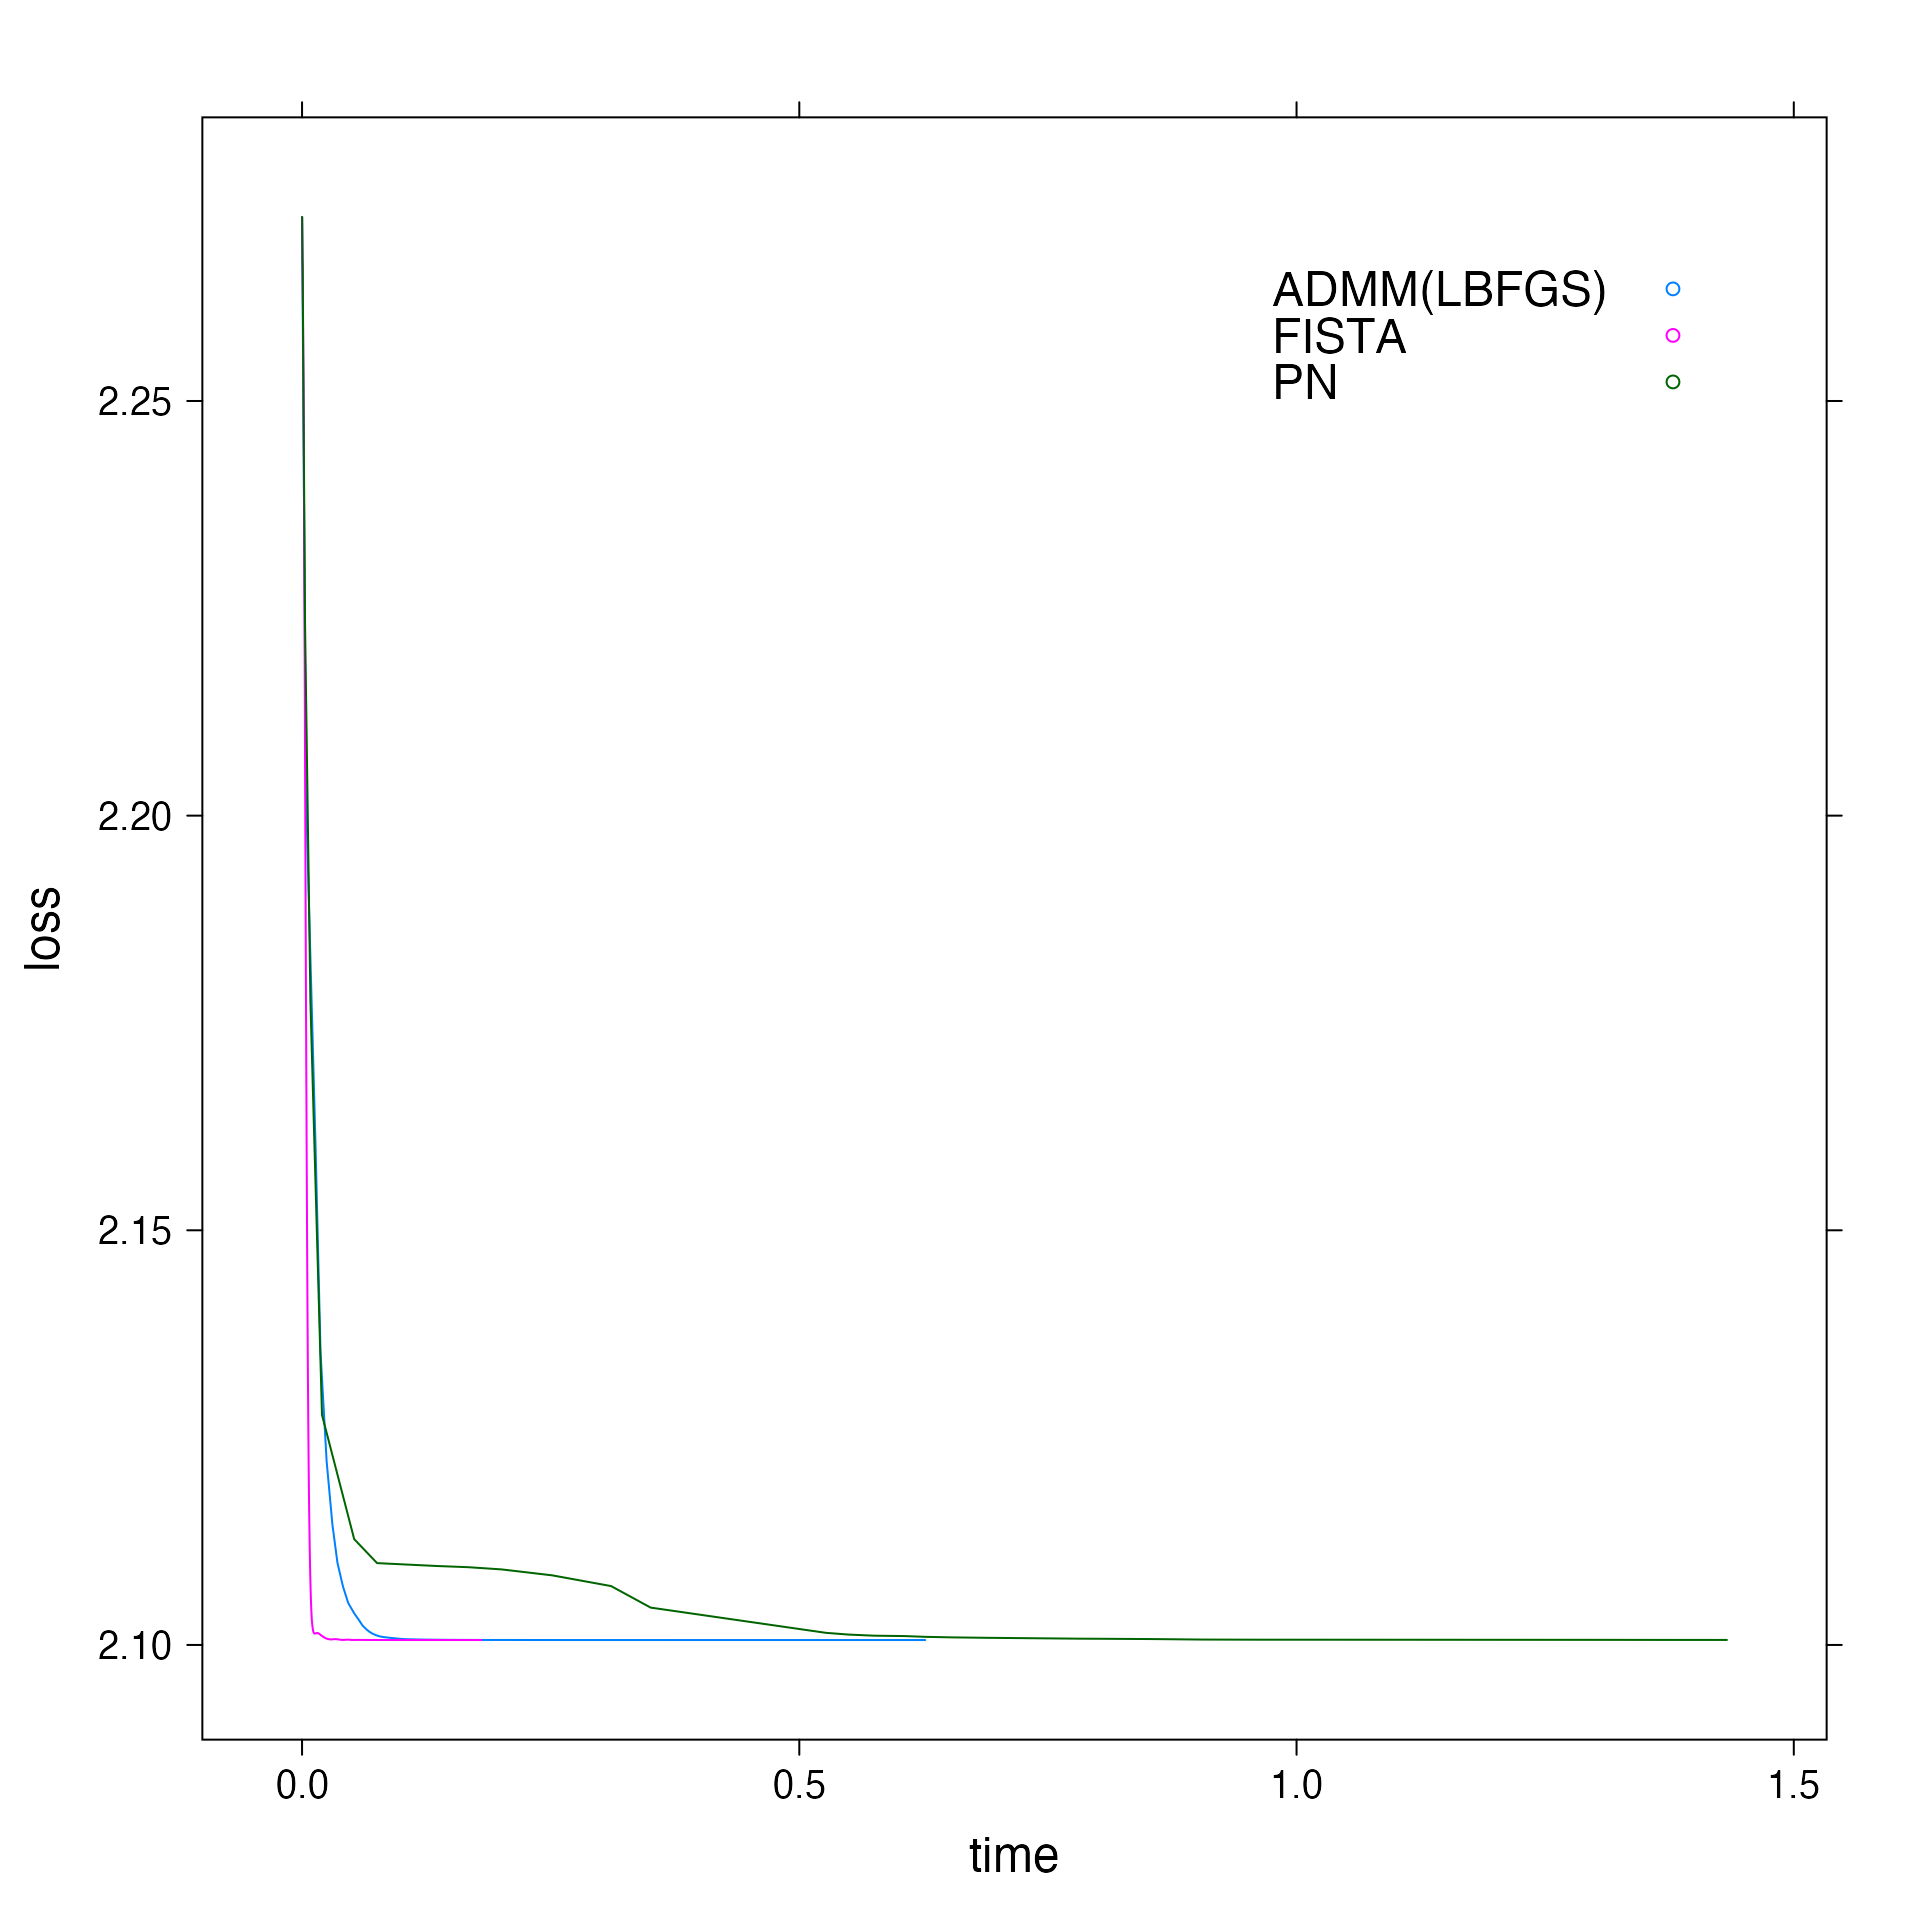
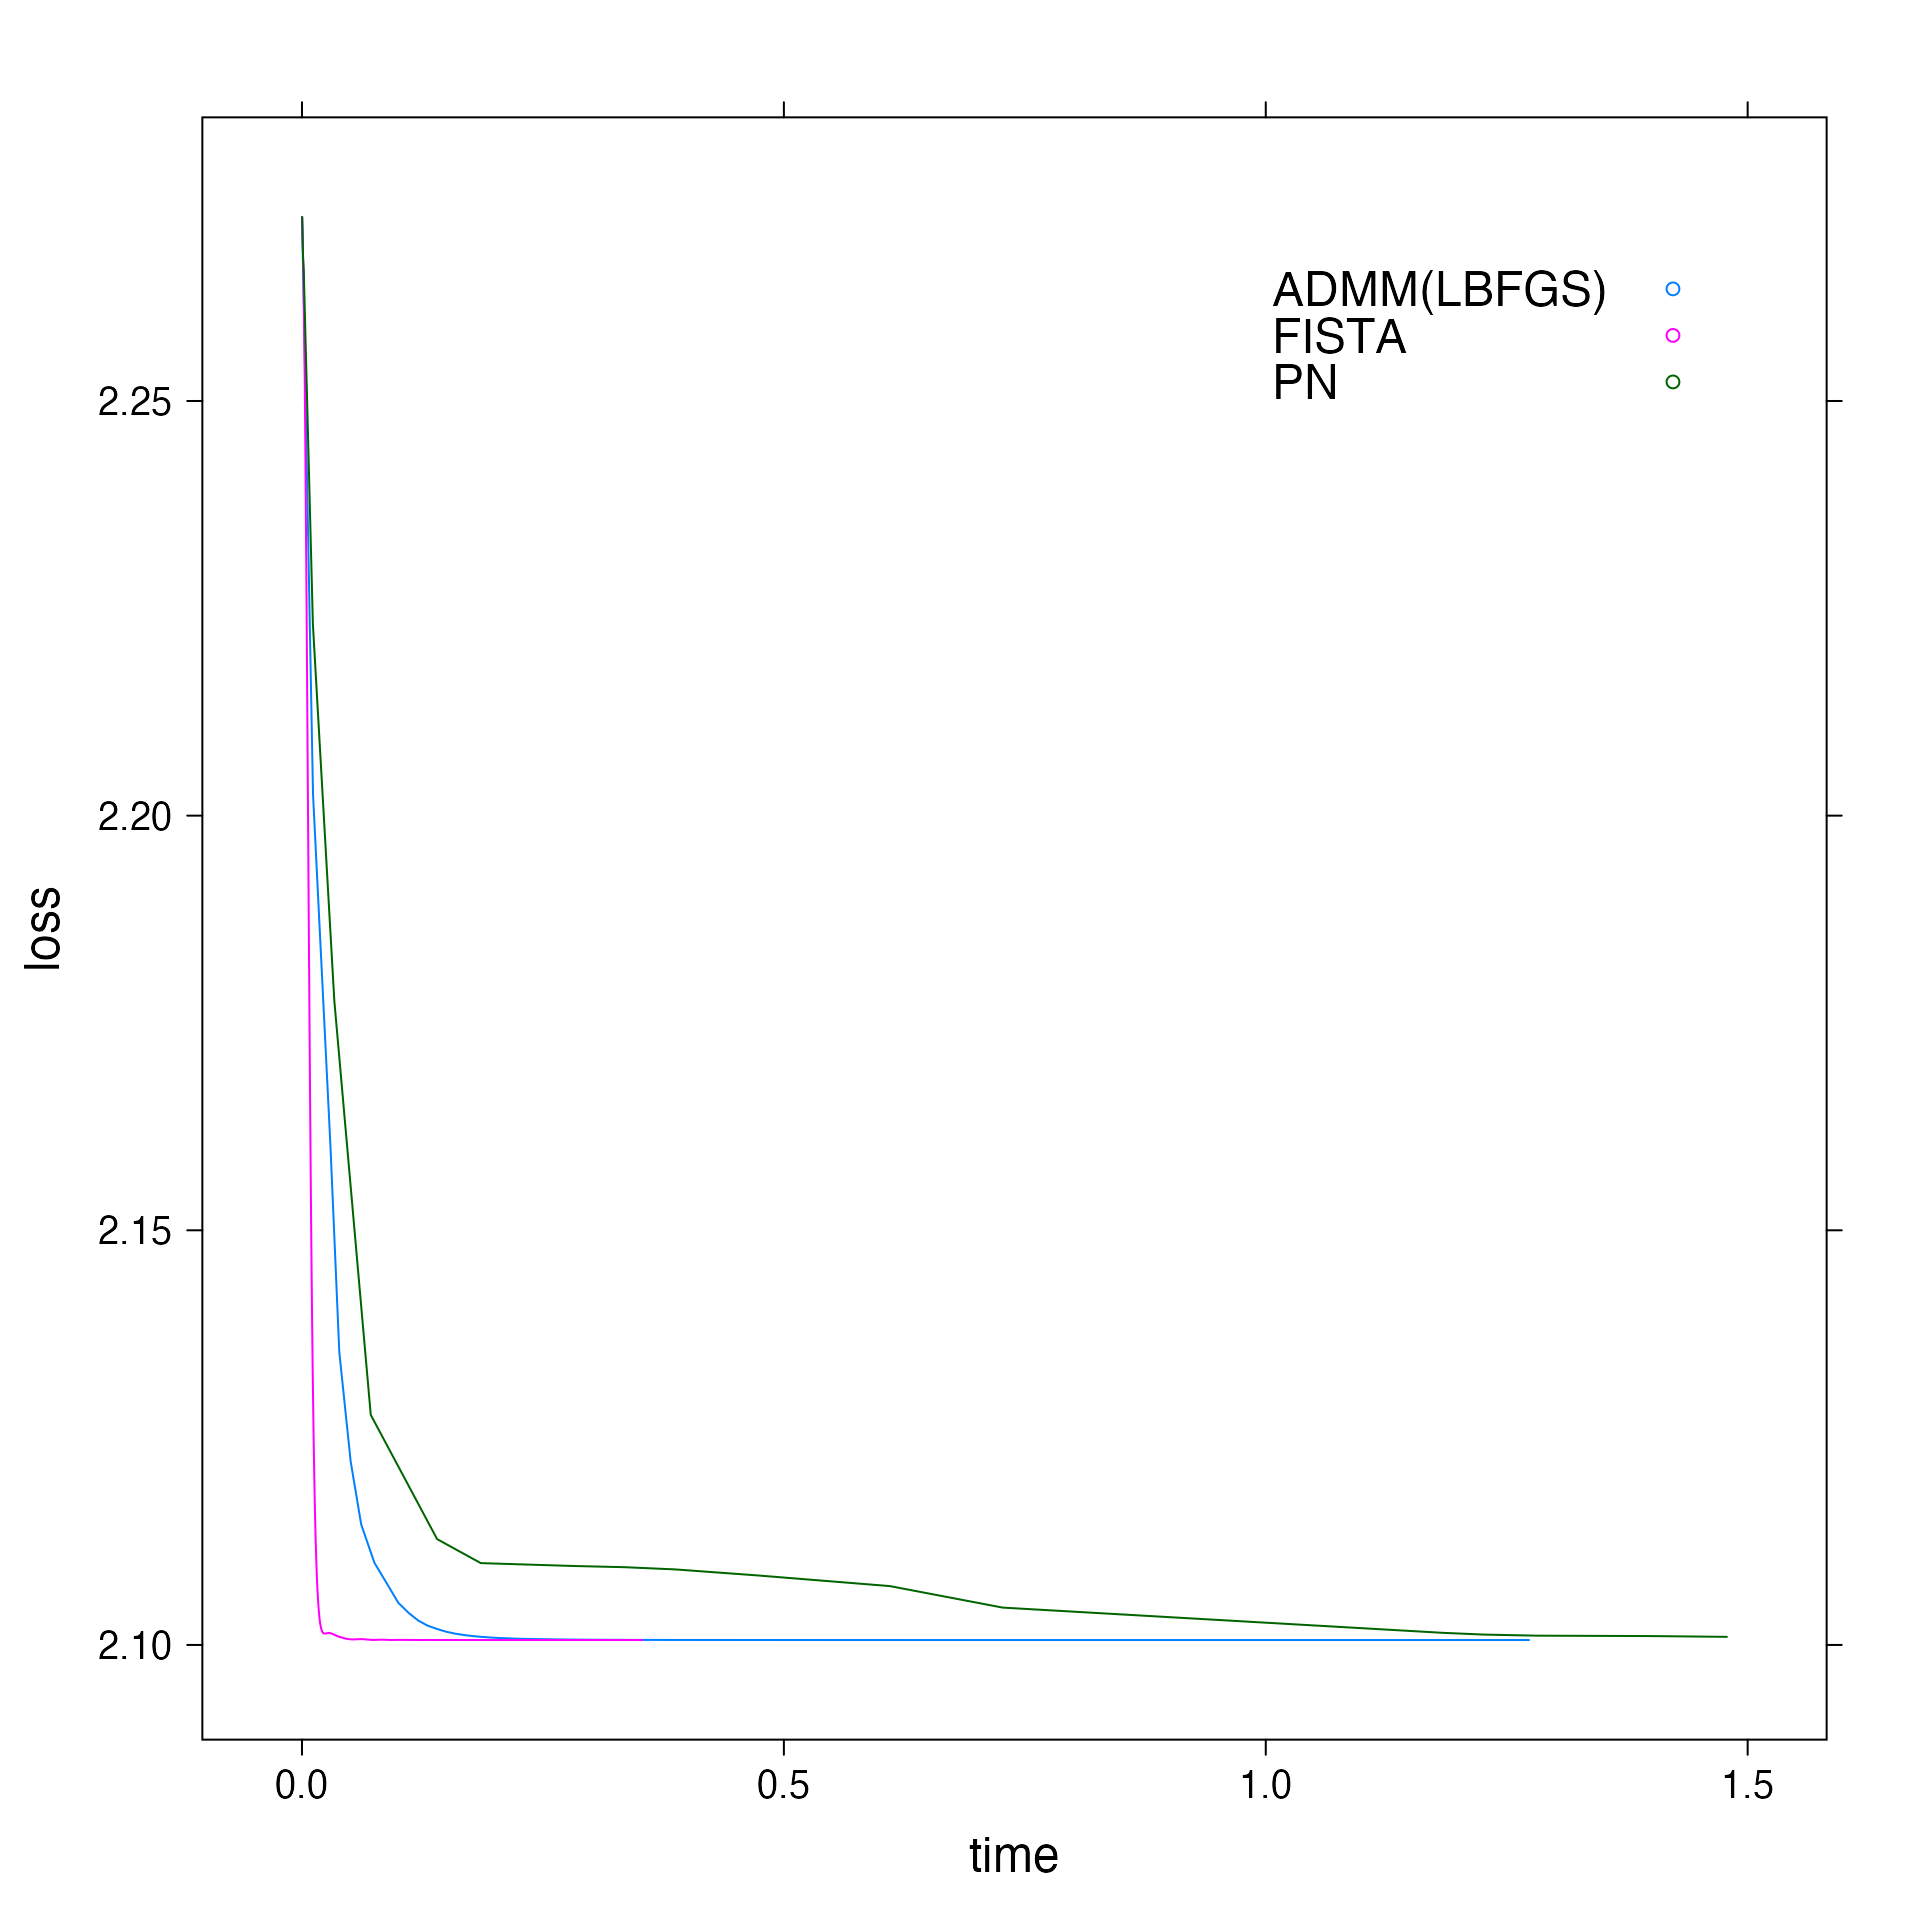
Built site for solvers: 1.0@c492801

diff --git a/articles/multinomial.html b/articles/multinomial.html
@@ -109,11 +109,11 @@
 <span class="fu"><a href="https://rdrr.io/r/base/Random.html">set.seed</a></span>(<span class="fl">34</span>)
 <span class="kw">d</span> <span class="op">&lt;-</span> <span class="fu"><a href="../reference/randomProblem.html">randomProblem</a></span>(<span class="fl">11</span>, <span class="fl">1</span>,  response=<span class="st">"multinomial"</span>, density = <span class="fl">1</span>, rho=<span class="fl">0</span>)
 <span class="kw">f</span> <span class="op">&lt;-</span> <span class="fu"><a href="../reference/getBenchmarks.html">getBenchmarks</a></span>(<span class="kw">d</span><span class="op">$</span><span class="kw">x</span>, <span class="kw">d</span><span class="op">$</span><span class="kw">y</span>, family=<span class="st">"multinomial"</span>, path_length = <span class="fl">100</span>)
-<span class="co">#&gt; [1] "Time taken by FISTA        :  0.056100554"</span>
-<span class="co">#&gt; [1] "Time taken by ADMM(NR)     :  0.28264184"</span>
-<span class="co">#&gt; [1] "Time taken by ADMM(BFGS)   :  0.830510262"</span>
-<span class="co">#&gt; [1] "Time taken by ADMM(L-BFGS) :  0.634850908"</span>
-<span class="co">#&gt; [1] "Time taken by PN           :  1.202317711"</span>
+<span class="co">#&gt; [1] "Time taken by FISTA        :  0.18700291"</span>
+<span class="co">#&gt; [1] "Time taken by ADMM(NR)     :  0.921408233"</span>
+<span class="co">#&gt; [1] "Time taken by ADMM(BFGS)   :  2.384906603"</span>
+<span class="co">#&gt; [1] "Time taken by ADMM(L-BFGS) :  1.582226949"</span>
+<span class="co">#&gt; [1] "Time taken by PN           :  3.124966306"</span>
 </pre></div>
 </div>
 </div>

diff --git a/articles/gaussian.html b/articles/gaussian.html
@@ -109,11 +109,11 @@
 <span class="fu"><a href="https://rdrr.io/r/base/Random.html">set.seed</a></span>(<span class="fl">34</span>)
 <span class="kw">d</span> <span class="op">&lt;-</span> <span class="fu"><a href="../reference/randomProblem.html">randomProblem</a></span>(<span class="fl">11</span>, <span class="fl">1</span>,  response=<span class="st">"gaussian"</span>, density = <span class="fl">1</span>, rho=<span class="fl">0</span>)
 <span class="kw">f</span> <span class="op">&lt;-</span> <span class="fu"><a href="../reference/getBenchmarks.html">getBenchmarks</a></span>(<span class="kw">d</span><span class="op">$</span><span class="kw">x</span>, <span class="kw">d</span><span class="op">$</span><span class="kw">y</span>, family=<span class="st">"gaussian"</span>, path_length = <span class="fl">100</span>)
-<span class="co">#&gt; [1] "Time taken by FISTA        :  0.000317441"</span>
-<span class="co">#&gt; [1] "Time taken by ADMM(NR)     :  0.004207765"</span>
-<span class="co">#&gt; [1] "Time taken by ADMM(BFGS)   :  0.002086665"</span>
-<span class="co">#&gt; [1] "Time taken by ADMM(L-BFGS) :  0.002277275"</span>
-<span class="co">#&gt; [1] "Time taken by PN           :  0.052450828"</span>
+<span class="co">#&gt; [1] "Time taken by FISTA        :  0.001070043"</span>
+<span class="co">#&gt; [1] "Time taken by ADMM(NR)     :  0.012712194"</span>
+<span class="co">#&gt; [1] "Time taken by ADMM(BFGS)   :  0.006289296"</span>
+<span class="co">#&gt; [1] "Time taken by ADMM(L-BFGS) :  0.006822883"</span>
+<span class="co">#&gt; [1] "Time taken by PN           :  0.162890104"</span>
 </pre></div>
 </div>
 </div>

diff --git a/articles/binomial.html b/articles/binomial.html
@@ -109,11 +109,11 @@
 <span class="fu"><a href="https://rdrr.io/r/base/Random.html">set.seed</a></span>(<span class="fl">34</span>)
 <span class="kw">d</span> <span class="op">&lt;-</span> <span class="fu"><a href="../reference/randomProblem.html">randomProblem</a></span>(<span class="fl">11</span>, <span class="fl">1</span>,  response=<span class="st">"binomial"</span>, density = <span class="fl">1</span>, rho=<span class="fl">0</span>)
 <span class="kw">f</span> <span class="op">&lt;-</span> <span class="fu"><a href="../reference/getBenchmarks.html">getBenchmarks</a></span>(<span class="kw">d</span><span class="op">$</span><span class="kw">x</span>, <span class="kw">d</span><span class="op">$</span><span class="kw">y</span>, family=<span class="st">"binomial"</span>, path_length = <span class="fl">100</span>)
-<span class="co">#&gt; [1] "Time taken by FISTA        :  0.089644426"</span>
-<span class="co">#&gt; [1] "Time taken by ADMM(NR)     :  0.516442496"</span>
-<span class="co">#&gt; [1] "Time taken by ADMM(BFGS)   :  0.584994052"</span>
-<span class="co">#&gt; [1] "Time taken by ADMM(L-BFGS) :  0.428199526"</span>
-<span class="co">#&gt; [1] "Time taken by PN           :  1.114276363"</span>
+<span class="co">#&gt; [1] "Time taken by FISTA        :  0.339340267"</span>
+<span class="co">#&gt; [1] "Time taken by ADMM(NR)     :  1.859449723"</span>
+<span class="co">#&gt; [1] "Time taken by ADMM(BFGS)   :  1.65065824"</span>
+<span class="co">#&gt; [1] "Time taken by ADMM(L-BFGS) :  1.21695224"</span>
+<span class="co">#&gt; [1] "Time taken by PN           :  3.265102156"</span>
 </pre></div>
 </div>
 </div>

diff --git a/articles/compare_opt_algo.html b/articles/compare_opt_algo.html
@@ -120,11 +120,11 @@
 <div class="sourceCode" id="cb4"><pre class="downlit">
 <span class="co"># Comparing total execution time</span>
 <span class="fu"><a href="https://rdrr.io/r/base/print.html">print</a></span>(<span class="kw">admm_nr</span><span class="op">$</span><span class="kw">total_time</span>)
-<span class="co">#&gt; [1] 0.9787739</span>
+<span class="co">#&gt; [1] 2.803488</span>
 <span class="fu"><a href="https://rdrr.io/r/base/print.html">print</a></span>(<span class="kw">admm_bfgs</span><span class="op">$</span><span class="kw">total_time</span>)
-<span class="co">#&gt; [1] 3.809065</span>
+<span class="co">#&gt; [1] 9.253482</span>
 <span class="fu"><a href="https://rdrr.io/r/base/print.html">print</a></span>(<span class="kw">admm_lbfgs</span><span class="op">$</span><span class="kw">total_time</span>)
-<span class="co">#&gt; [1] 3.457748</span>
+<span class="co">#&gt; [1] 9.770615</span>
 </pre></div>
 <p>Now, these fits cannot be directly used to plot as they contain a lot of parameter so we’ll call a utility function that merges the relevant parameter and returns a dataframe.</p>
 <div class="sourceCode" id="cb5"><pre class="downlit">

diff --git a/articles/compare-fista-admm-pn.html b/articles/compare-fista-admm-pn.html
@@ -118,11 +118,11 @@
 <div class="sourceCode" id="cb4"><pre class="downlit">
 <span class="co"># Comparing total execution time</span>
 <span class="fu"><a href="https://rdrr.io/r/base/print.html">print</a></span>(<span class="kw">fista_fit</span><span class="op">$</span><span class="kw">total_time</span>)
-<span class="co">#&gt; [1] 0.1806466</span>
+<span class="co">#&gt; [1] 0.3539495</span>
 <span class="fu"><a href="https://rdrr.io/r/base/print.html">print</a></span>(<span class="kw">admm_fit</span><span class="op">$</span><span class="kw">total_time</span>)
-<span class="co">#&gt; [1] 0.6300075</span>
+<span class="co">#&gt; [1] 1.282969</span>
 <span class="fu"><a href="https://rdrr.io/r/base/print.html">print</a></span>(<span class="kw">pn_fit</span><span class="op">$</span><span class="kw">total_time</span>)
-<span class="co">#&gt; [1] 8.224922</span>
+<span class="co">#&gt; [1] 21.26896</span>
 </pre></div>
 <p>Now, these fits cannot be directly used to plot as they contain a lot of parameter so we’ll call a utility function that merges the relevant parameter and returns a dataframe.</p>
 <div class="sourceCode" id="cb5"><pre class="downlit">
